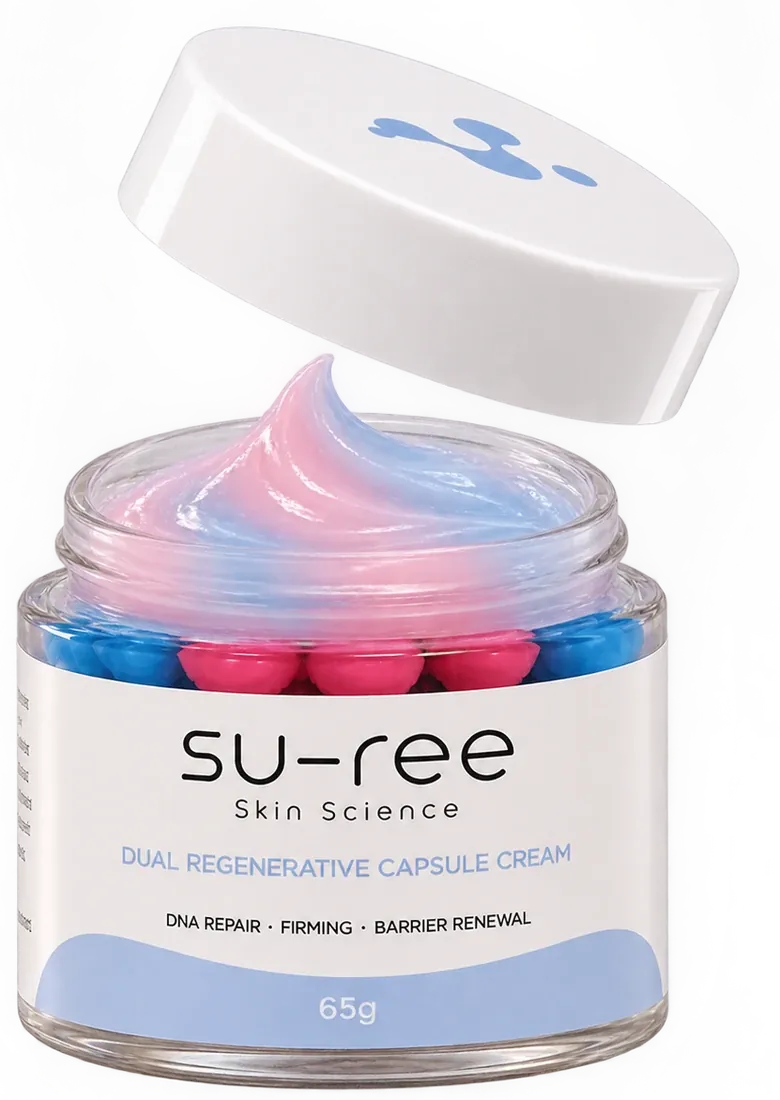
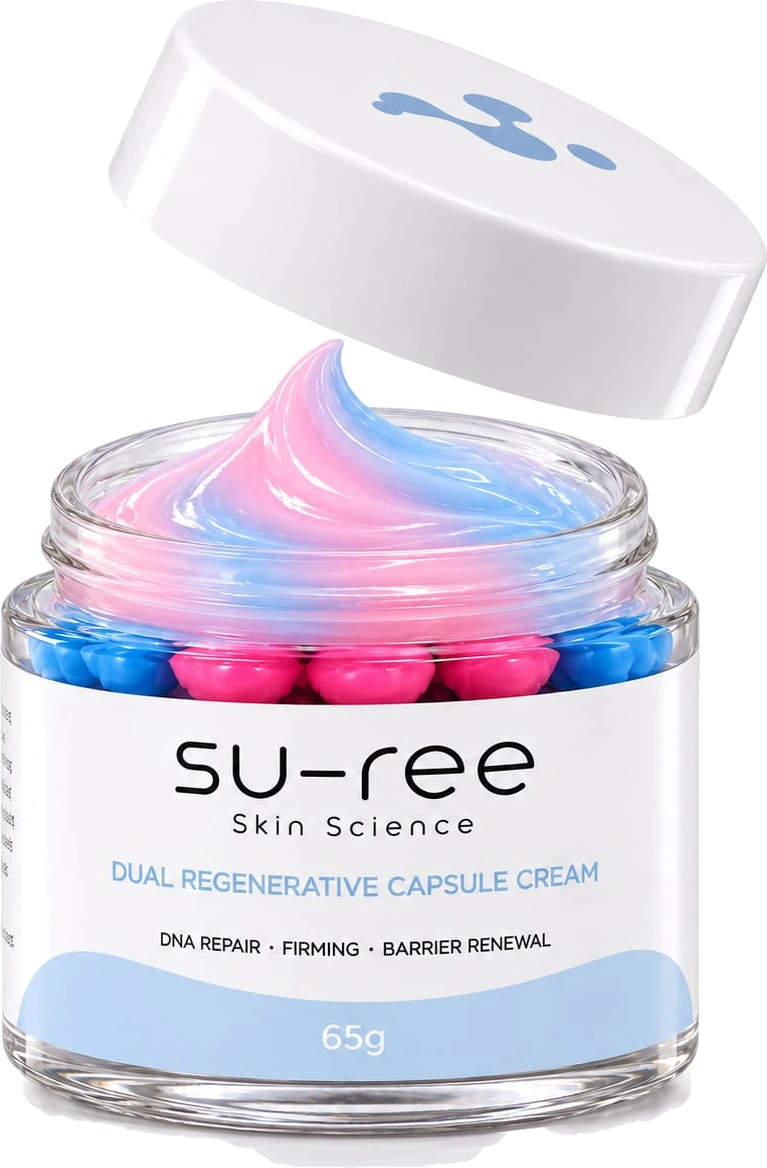
What's inside opens the jar and the bottle
Two new renders replace the open-product shots, cut off their backdrop
the same way. The hunt for floor shadow now keeps to the lower half of
a frame: it had taken the serum pump's spout, which is pale and thin
but is not a shadow. Both shots are taller than they are wide, so the
stage sizes them by its height rather than its width.

diff --git a/Home.dc.html b/Home.dc.html
@@ -838,8 +838,8 @@
     /* a taller stage, a bigger jar, and the four notes moved clear of it:
        two above, two below, each with its words over or under its icon */
     .sr-in-stage { aspect-ratio: 1 / 1.16 !important; }
-    .sr-in-shot { width: 42% !important; }
-    .sr-in-shot-sm { width: 38% !important; }
+    .sr-in-shot { height: 72% !important; }
+    .sr-in-shot-sm { height: 68% !important; }
     /* smaller discs, and the section ends sooner under them */
     .sr-ing > [aria-hidden] { height: 46px !important; width: 46px !important; }
     .sr-ing > [aria-hidden] svg { width: 20px !important; height: 20px !important; }
@@ -1270,7 +1270,7 @@
         <div class="sr-in-stage" data-sr-step="out" data-sr-pop="{{ insidePop }}" style="position:relative; min-width:0; width:100%; aspect-ratio:1000 / 660">
           <div style="position:absolute; inset:0; opacity: {{ i0Op }}; visibility: {{ i0Vis }}; pointer-events: {{ i0Pe }}; transform: {{ i0Tr }}; transition:opacity 900ms ease, transform 900ms ease">
             <svg class="sr-ing-lines" viewBox="0 0 1000 660" preserveAspectRatio="none" aria-hidden="true" style="position:absolute; inset:0; height:100%; width:100%"><path d="M150 132 C 268 156, 338 198, 424 254" fill="none" stroke="#a9cdf0" stroke-width="1.3" stroke-dasharray="4 6" stroke-linecap="round" opacity="0.85"></path><path d="M858 108 C 742 136, 678 186, 596 248" fill="none" stroke="#a9cdf0" stroke-width="1.3" stroke-dasharray="4 6" stroke-linecap="round" opacity="0.85"></path><path d="M168 512 C 278 496, 352 468, 432 428" fill="none" stroke="#a9cdf0" stroke-width="1.3" stroke-dasharray="4 6" stroke-linecap="round" opacity="0.85"></path><path d="M840 500 C 742 488, 654 462, 580 426" fill="none" stroke="#a9cdf0" stroke-width="1.3" stroke-dasharray="4 6" stroke-linecap="round" opacity="0.85"></path></svg>
-            <span class="sr-in-shot" style="position:absolute; left:50%; top:50%; transform:translate(-50%,-50%); display:block; width:32%"><img src="assets/p-cream-open.webp" alt="su-ree Dual Regenerative Capsule Cream jar" loading="lazy" decoding="async" style="display:block; width:100%; height:auto; object-fit:contain; animation:sr-hero-float 7.5s ease-in-out infinite; filter:drop-shadow(0 26px 34px rgba(18,38,58,0.24))" /></span>
+            <span class="sr-in-shot" style="position:absolute; left:50%; top:50%; transform:translate(-50%,-50%); display:block; height:80%"><img src="assets/p-cream-open.webp" alt="su-ree Dual Regenerative Capsule Cream jar" loading="lazy" decoding="async" style="display:block; height:100%; width:auto; object-fit:contain; animation:sr-hero-float 7.5s ease-in-out infinite; filter:drop-shadow(0 26px 34px rgba(18,38,58,0.24))" /></span>
             <div class="sr-ing sr-ing-tl" style="position:absolute; display:flex; align-items:center; gap:13px; width:max-content; max-width:46%"><span aria-hidden="true" style="display:flex; height:62px; width:62px; flex-shrink:0; align-items:center; justify-content:center; border-radius:9999px; background:radial-gradient(circle at 32% 26%, #ffffff 0%, #fdeef4 44%, #f8d6e4 76%, #f4b7d2 100%); box-shadow:inset 0 -5px 12px rgba(18,38,58,0.06), 0 14px 26px -14px rgba(18,59,102,0.6)"><svg width="27" height="27" viewBox="0 0 24 24" fill="none" stroke="#c4749b" stroke-width="1.4" stroke-linecap="round" stroke-linejoin="round" aria-hidden="true"><path d="m10 16 1.5 1.5"></path><path d="m14 8-1.5-1.5"></path><path d="M15 2c-1.798 1.998-2.518 3.995-2.807 5.993"></path><path d="m16.5 10.5 1 1"></path><path d="m17 6-2.891-2.891"></path><path d="M2 15c6.667-6 13.333 0 20-6"></path><path d="m20 9 .891.891"></path><path d="M3.109 14.109 4 15"></path><path d="m6.5 12.5 1 1"></path><path d="m7 18 2.891 2.891"></path><path d="M9 22c1.798-1.998 2.518-3.995 2.807-5.993"></path></svg></span><span class="sr-ing-txt" style="display:flex; flex-direction:column; gap:3px; text-align:left"><span style="font-family:'Jost',ui-sans-serif,sans-serif; font-size:10px; font-weight:600; color:#8295b4; letter-spacing:2.2px">2400 MG</span><span style="font-family:'Jost',ui-sans-serif,sans-serif; font-size:13.5px; font-weight:600; color:#1b3456; letter-spacing:1.4px">PDRN</span><span style="font-size:12px; color:#4e648a; line-height:1.5; max-width:158px">Sodium DNA, in the pink beads</span></span></div>
             <div class="sr-ing sr-ing-tr" style="position:absolute; display:flex; align-items:center; gap:13px; width:max-content; flex-direction:row-reverse; max-width:46%"><span class="sr-ing-txt" style="display:flex; flex-direction:column; gap:3px; text-align:right"><span style="font-family:'Jost',ui-sans-serif,sans-serif; font-size:10px; font-weight:600; color:#8295b4; letter-spacing:2.2px">2400 MG</span><span style="font-family:'Jost',ui-sans-serif,sans-serif; font-size:13.5px; font-weight:600; color:#1b3456; letter-spacing:1.4px">GHK-CU</span><span style="font-size:12px; color:#4e648a; line-height:1.5; max-width:158px">Copper tripeptide-1, in the blue beads</span></span><span aria-hidden="true" style="display:flex; height:62px; width:62px; flex-shrink:0; align-items:center; justify-content:center; border-radius:9999px; background:radial-gradient(circle at 32% 26%, #ffffff 0%, #e7f3ff 46%, #cfe2f8 78%, #bad2e9 100%); box-shadow:inset 0 -5px 12px rgba(18,38,58,0.06), 0 14px 26px -14px rgba(18,59,102,0.6)"><svg width="27" height="27" viewBox="0 0 24 24" fill="none" stroke="#3f7fc9" stroke-width="1.4" stroke-linecap="round" stroke-linejoin="round" aria-hidden="true"><circle cx="12" cy="12" r="1"></circle><path d="M20.2 20.2c2.04-2.03.02-7.36-4.5-11.9-4.54-4.52-9.87-6.54-11.9-4.5-2.04 2.03-.02 7.36 4.5 11.9 4.54 4.52 9.87 6.54 11.9 4.5Z"></path><path d="M15.7 15.7c4.52-4.54 6.54-9.87 4.5-11.9-2.03-2.04-7.36-.02-11.9 4.5-4.52 4.54-6.54 9.87-4.5 11.9 2.03 2.04 7.36.02 11.9-4.5Z"></path></svg></span></div>
             <div class="sr-ing sr-ing-bl" style="position:absolute; display:flex; align-items:center; gap:13px; width:max-content; max-width:46%"><span aria-hidden="true" style="display:flex; height:62px; width:62px; flex-shrink:0; align-items:center; justify-content:center; border-radius:9999px; background:radial-gradient(circle at 32% 26%, #ffffff 0%, #e7f3ff 46%, #cfe2f8 78%, #bad2e9 100%); box-shadow:inset 0 -5px 12px rgba(18,38,58,0.06), 0 14px 26px -14px rgba(18,59,102,0.6)"><svg width="27" height="27" viewBox="0 0 24 24" fill="none" stroke="#3f7fc9" stroke-width="1.4" stroke-linecap="round" stroke-linejoin="round" aria-hidden="true"><path d="M12 22a7 7 0 0 0 7-7c0-2-1-3.9-3-5.5s-3.5-4-4-6.5c-.5 2.5-2 4.9-4 6.5S5 13 5 15a7 7 0 0 0 7 7z"></path></svg></span><span class="sr-ing-txt" style="display:flex; flex-direction:column; gap:3px; text-align:left"><span style="font-family:'Jost',ui-sans-serif,sans-serif; font-size:10px; font-weight:600; color:#8295b4; letter-spacing:2.2px">THE BASE</span><span style="font-family:'Jost',ui-sans-serif,sans-serif; font-size:13.5px; font-weight:600; color:#1b3456; letter-spacing:1.4px">CLEAR GEL</span><span style="font-size:12px; color:#4e648a; line-height:1.5; max-width:158px">Water, glycerin, carbomer</span></span></div>
@@ -1278,7 +1278,7 @@
           </div>
           <div style="position:absolute; inset:0; opacity: {{ i1Op }}; visibility: {{ i1Vis }}; pointer-events: {{ i1Pe }}; transform: {{ i1Tr }}; transition:opacity 900ms ease, transform 900ms ease">
             <svg class="sr-ing-lines" viewBox="0 0 1000 660" preserveAspectRatio="none" aria-hidden="true" style="position:absolute; inset:0; height:100%; width:100%"><path d="M150 132 C 268 156, 338 198, 424 254" fill="none" stroke="#a9cdf0" stroke-width="1.3" stroke-dasharray="4 6" stroke-linecap="round" opacity="0.85"></path><path d="M858 108 C 742 136, 678 186, 596 248" fill="none" stroke="#a9cdf0" stroke-width="1.3" stroke-dasharray="4 6" stroke-linecap="round" opacity="0.85"></path><path d="M168 512 C 278 496, 352 468, 432 428" fill="none" stroke="#a9cdf0" stroke-width="1.3" stroke-dasharray="4 6" stroke-linecap="round" opacity="0.85"></path><path d="M840 500 C 742 488, 654 462, 580 426" fill="none" stroke="#a9cdf0" stroke-width="1.3" stroke-dasharray="4 6" stroke-linecap="round" opacity="0.85"></path></svg>
-            <span class="sr-in-shot sr-in-shot-sm" style="position:absolute; left:50%; top:50%; transform:translate(-50%,-50%); display:block; width:28%"><img src="assets/p-serum-open.webp" alt="su-ree GHK-Cu+ Snap 8 Serum bottle" loading="lazy" decoding="async" style="display:block; width:100%; height:auto; object-fit:contain; animation:sr-hero-float 7.5s ease-in-out infinite; filter:drop-shadow(0 26px 34px rgba(18,38,58,0.24))" /></span>
+            <span class="sr-in-shot sr-in-shot-sm" style="position:absolute; left:50%; top:50%; transform:translate(-50%,-50%); display:block; height:76%"><img src="assets/p-serum-open.webp" alt="su-ree GHK-Cu+ Snap 8 Serum bottle" loading="lazy" decoding="async" style="display:block; height:100%; width:auto; object-fit:contain; animation:sr-hero-float 7.5s ease-in-out infinite; filter:drop-shadow(0 26px 34px rgba(18,38,58,0.24))" /></span>
             <div class="sr-ing sr-ing-tl" style="position:absolute; display:flex; align-items:center; gap:13px; width:max-content; max-width:46%"><span aria-hidden="true" style="display:flex; height:62px; width:62px; flex-shrink:0; align-items:center; justify-content:center; border-radius:9999px; background:radial-gradient(circle at 32% 26%, #ffffff 0%, #e7f3ff 46%, #cfe2f8 78%, #bad2e9 100%); box-shadow:inset 0 -5px 12px rgba(18,38,58,0.06), 0 14px 26px -14px rgba(18,59,102,0.6)"><svg width="27" height="27" viewBox="0 0 24 24" fill="none" stroke="#3f7fc9" stroke-width="1.4" stroke-linecap="round" stroke-linejoin="round" aria-hidden="true"><circle cx="12" cy="12" r="1"></circle><path d="M20.2 20.2c2.04-2.03.02-7.36-4.5-11.9-4.54-4.52-9.87-6.54-11.9-4.5-2.04 2.03-.02 7.36 4.5 11.9 4.54 4.52 9.87 6.54 11.9 4.5Z"></path><path d="M15.7 15.7c4.52-4.54 6.54-9.87 4.5-11.9-2.03-2.04-7.36-.02-11.9 4.5-4.52 4.54-6.54 9.87-4.5 11.9 2.03 2.04 7.36.02 11.9-4.5Z"></path></svg></span><span class="sr-ing-txt" style="display:flex; flex-direction:column; gap:3px; text-align:left"><span style="font-family:'Jost',ui-sans-serif,sans-serif; font-size:10px; font-weight:600; color:#8295b4; letter-spacing:2.2px">1200 MG</span><span style="font-family:'Jost',ui-sans-serif,sans-serif; font-size:13.5px; font-weight:600; color:#1b3456; letter-spacing:1.4px">GHK-CU</span><span style="font-size:12px; color:#4e648a; line-height:1.5; max-width:158px">Copper tripeptide-1</span></span></div>
             <div class="sr-ing sr-ing-tr" style="position:absolute; display:flex; align-items:center; gap:13px; width:max-content; flex-direction:row-reverse; max-width:46%"><span class="sr-ing-txt" style="display:flex; flex-direction:column; gap:3px; text-align:right"><span style="font-family:'Jost',ui-sans-serif,sans-serif; font-size:10px; font-weight:600; color:#8295b4; letter-spacing:2.2px">10,000 MCG</span><span style="font-family:'Jost',ui-sans-serif,sans-serif; font-size:13.5px; font-weight:600; color:#1b3456; letter-spacing:1.4px">SNAP-8</span><span style="font-size:12px; color:#4e648a; line-height:1.5; max-width:158px">Fine-line care</span></span><span aria-hidden="true" style="display:flex; height:62px; width:62px; flex-shrink:0; align-items:center; justify-content:center; border-radius:9999px; background:radial-gradient(circle at 32% 26%, #ffffff 0%, #e7f3ff 46%, #cfe2f8 78%, #bad2e9 100%); box-shadow:inset 0 -5px 12px rgba(18,38,58,0.06), 0 14px 26px -14px rgba(18,59,102,0.6)"><svg width="27" height="27" viewBox="0 0 24 24" fill="none" stroke="#3f7fc9" stroke-width="1.4" stroke-linecap="round" stroke-linejoin="round" aria-hidden="true"><path d="M2 12q2.5 2 5 0t5 0 5 0 5 0"></path><path d="M2 19q2.5 2 5 0t5 0 5 0 5 0"></path><path d="M2 5q2.5 2 5 0t5 0 5 0 5 0"></path></svg></span></div>
             <div class="sr-ing sr-ing-bl" style="position:absolute; display:flex; align-items:center; gap:13px; width:max-content; max-width:46%"><span aria-hidden="true" style="display:flex; height:62px; width:62px; flex-shrink:0; align-items:center; justify-content:center; border-radius:9999px; background:radial-gradient(circle at 32% 26%, #ffffff 0%, #e7f3ff 46%, #cfe2f8 78%, #bad2e9 100%); box-shadow:inset 0 -5px 12px rgba(18,38,58,0.06), 0 14px 26px -14px rgba(18,59,102,0.6)"><svg width="27" height="27" viewBox="0 0 24 24" fill="none" stroke="#3f7fc9" stroke-width="1.4" stroke-linecap="round" stroke-linejoin="round" aria-hidden="true"><path d="M11.017 2.814a1 1 0 0 1 1.966 0l1.051 5.558a2 2 0 0 0 1.594 1.594l5.558 1.051a1 1 0 0 1 0 1.966l-5.558 1.051a2 2 0 0 0-1.594 1.594l-1.051 5.558a1 1 0 0 1-1.966 0l-1.051-5.558a2 2 0 0 0-1.594-1.594l-5.558-1.051a1 1 0 0 1 0-1.966l5.558-1.051a2 2 0 0 0 1.594-1.594z"></path></svg></span><span class="sr-ing-txt" style="display:flex; flex-direction:column; gap:3px; text-align:left"><span style="font-family:'Jost',ui-sans-serif,sans-serif; font-size:10px; font-weight:600; color:#8295b4; letter-spacing:2.2px">IN THE SERUM</span><span style="font-family:'Jost',ui-sans-serif,sans-serif; font-size:13.5px; font-weight:600; color:#1b3456; letter-spacing:1.4px">ARGIRELINE</span><span style="font-size:12px; color:#4e648a; line-height:1.5; max-width:158px">Beside SNAP-8</span></span></div>
